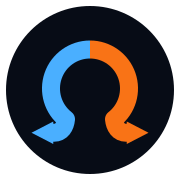
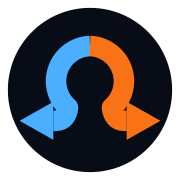
feat(brand): prominent swap arrows on the omega mark
Community feedback (Robyer, QRL Discord): the arrows on the omega mark were
too small to read as a swap at favicon sizes. Rework the mark so the
arrowheads are the dominant element: stroke up from 12 to 14, heads roughly
doubled (26 units tall, 23 deep) and feet extended outward.

Applied everywhere the mark appears: favicon.svg, the Logo.tsx mirror
(theme tokens), apple-touch-icon.png, and the OG card badge + watermark.
The OG card now has a committed SVG source under frontend/brand/ with
regeneration instructions; the original card was rebuilt from a lost temp
file, so this stops the next iteration from needing pixel archaeology.

diff --git a/frontend/src/components/Logo.tsx b/frontend/src/components/Logo.tsx
@@ -4,30 +4,30 @@ import { cn } from "@/utils/cn";
 // and the new (QRL, ember) on the right; the feet are the two-way crossing.
 // The arcs keep their brand hues (battery blue / QRL orange, which the
 // blue-accent and secondary tokens carry verbatim); the disc behind them
-// was old blue-slate page chrome and now reads from the surface tokens.
+// reads from the surface tokens. Arrowheads are deliberately oversized
+// (roughly 2x the stroke width) after community feedback that the originals
+// vanished at favicon sizes; keep them dominant in any future tweak.
 const Mark = () => (
   <svg width="28" height="28" viewBox="0 0 120 120" aria-hidden>
     <circle cx="60" cy="60" r="56" fill="hsl(var(--muted))" stroke="hsl(var(--border))" strokeWidth="4" />
-    <g transform="translate(0,5)">
-      <path
-        d="M60 28 A 26 26 0 0 0 44 74.5 C 43.5 79.5 41 83.5 36 83.5 L 35 83.5"
-        stroke="hsl(var(--blue-accent))"
-        strokeWidth="12"
-        fill="none"
-        strokeLinecap="butt"
-        strokeLinejoin="round"
-      />
-      <polygon points="35.5,76 35.5,91 21,83.5" fill="hsl(var(--blue-accent))" />
-      <path
-        d="M60 28 A 26 26 0 0 1 76 74.5 C 76.5 79.5 79 83.5 84 83.5 L 85 83.5"
-        stroke="hsl(var(--secondary))"
-        strokeWidth="12"
-        fill="none"
-        strokeLinecap="butt"
-        strokeLinejoin="round"
-      />
-      <polygon points="84.5,76 84.5,91 99,83.5" fill="hsl(var(--secondary))" />
-    </g>
+    <path
+      d="M60 30 A 24 24 0 0 0 45 72 C 44.5 77 42 81 37 81 L 35 81"
+      stroke="hsl(var(--blue-accent))"
+      strokeWidth="14"
+      fill="none"
+      strokeLinecap="butt"
+      strokeLinejoin="round"
+    />
+    <polygon points="35,68 35,94 12,81" fill="hsl(var(--blue-accent))" />
+    <path
+      d="M60 30 A 24 24 0 0 1 75 72 C 75.5 77 78 81 83 81 L 85 81"
+      stroke="hsl(var(--secondary))"
+      strokeWidth="14"
+      fill="none"
+      strokeLinecap="butt"
+      strokeLinejoin="round"
+    />
+    <polygon points="85,68 85,94 108,81" fill="hsl(var(--secondary))" />
   </svg>
 );
 

diff --git a/frontend/brand/README.md b/frontend/brand/README.md
@@ -1,0 +1,21 @@
+# Brand assets
+
+The canonical mark lives in `../public/favicon.svg` (and is hand-mirrored in
+`../src/components/Logo.tsx` with theme tokens instead of literal colors).
+Everything else derives from it.
+
+Regenerate the shipped rasters after changing the mark (needs `rsvg-convert`
+from librsvg2-bin, ImageMagick, and the Lato system font):
+
+```bash
+# OG card (also update the mark groups inside og-card.svg first)
+rsvg-convert -w 1200 -h 630 og-card.svg -o ../public/og-image.png
+
+# Apple touch icon: 176px mark centered on a 180px transparent canvas
+rsvg-convert -w 176 -h 176 ../public/favicon.svg -o /tmp/qs-mark-176.png
+convert -size 180x180 xc:none /tmp/qs-mark-176.png -gravity center -composite ../public/apple-touch-icon.png
+```
+
+Design notes: the arrowheads are intentionally oversized (about 2x the stroke
+width) after community feedback that the first version's arrows disappeared at
+small sizes. Keep them dominant.
